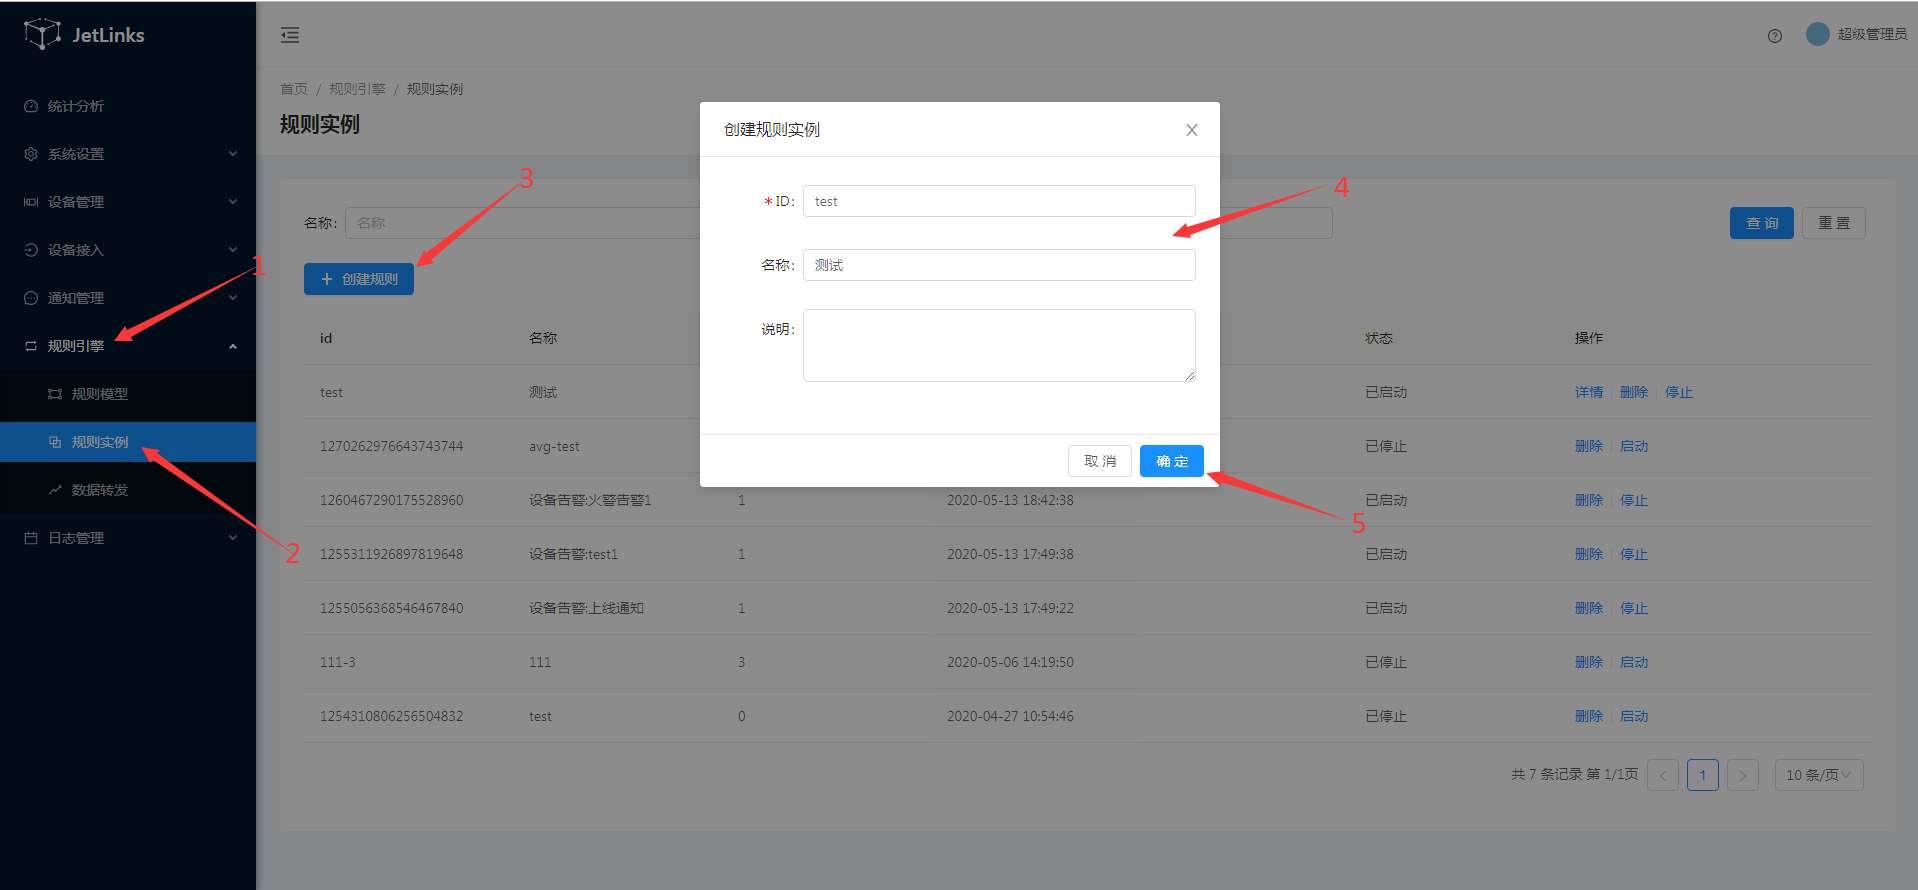
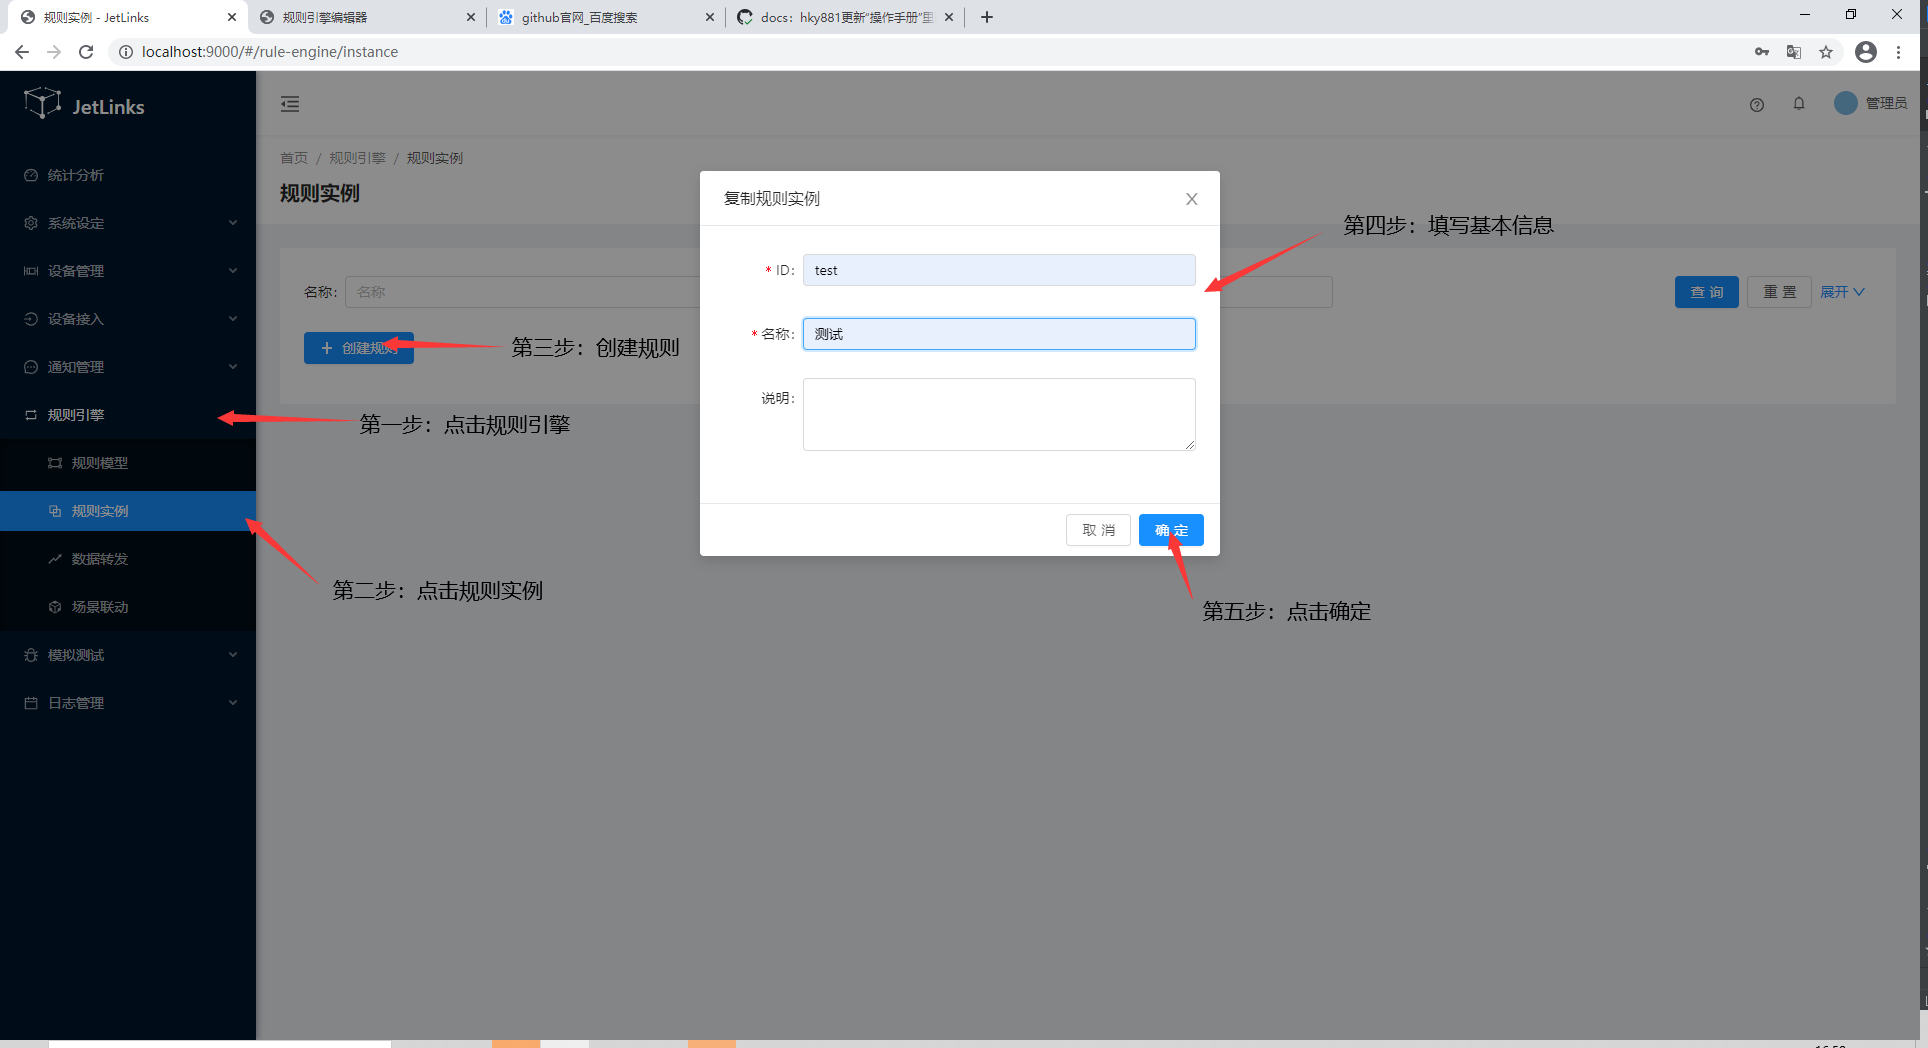
docs:增加demoDevice操作流程

diff --git a/.vuepress/config.js b/.vuepress/config.js
@@ -81,7 +81,8 @@ module.exports = {
                     ['/basics-guide/device-manager.md', '设备管理'],
                     ['/basics-guide/course/network.md', '设备接入'],
                     ['/basics-guide/course/notification.md', '通知管理'],
-                    ['/basics-guide/course/rule-engine-nodered.md', '规则引擎']
+                    ['/basics-guide/course/rule-engine-nodered.md', '规则引擎'],
+                    ['/basics-guide/DemoDevice.md', 'DemoDevice操作流程']
                     //['/basics-guide/course/logger.md', '日志管理']
                 ]
             },

diff --git a/basics-guide/DemoDevice.md b/basics-guide/DemoDevice.md
@@ -1,0 +1,114 @@
+# DemoDevicies手册
+
+## 新建
+
+### 新建网络组件
+
+1.进入系统,点击`设备接入` → `网络组件` → `新增组件`
+
+![新建网络组件](images/device_demo/Network_components.png)
+
+2.创建完后启动组件（蓝色为启动成功）
+
+![启动网络组件](images/device_demo/start_network.png)
+
+### 新建设备网关
+
+1.点击 `设备接入 `→ `设备网关` → `新建`
+![新建网关](images/device_demo/device_gateway.png)
+
+2.创建成功后，找到刚创建的网关，开启网关
+
+![开启网关](images/device_demo/start_gateway.png)
+
+### 创建协议
+1.点击 `设备接入` → `协议管理` → `新建`
+
+输入类名org.jetlinks.pisenser.protocol.PiSenserProtocolSupportProvider
+![创建协议](images/device_demo/create_protocol.png)
+
+2.在操作栏中点击点击`发布`
+![发布协议](images/device_demo/protocol_release.png)
+### 创建产品
+1.点击 `设备管理` →`产品`→ `新建`
+
+2.点击新建过后会跳转到创建产品界面，如下图：
+
+![创建产品](images/device_demo/create_product.png)
+
+3.点击保存过后会跳转到产品基本信息界面，点击 `发布` → `应用配置` ，如图下：
+
+![发布产品](images/device_demo/product_release.png)
+
+4.导入物模型
+
+·下载快速导入物模型的文件,再点击`应用配置`
+![导入物模型](images/device_demo/download.png)
+### 创建设备:
+
+1.点击 `设备管理` → `设备` → `添加设备`
+![导入物模型](images/device_demo/create_equipment.png)
+
+2.点击保存过后会跳转到设备的基本信息，点击激活设备，如下图：
+![导入物模型](images/device_demo/activate_equipment.png)
+
+## 模拟设备接入
+1.下载并安装MQTT.fx软件。请访问[MQTT官网](https://mqttfx.jensd.de/index.php/download?spm=a2c4g.11186623.2.16.20ab5800HxuVJR)下载。
+
+2.打开MQTT.fx软件，单击设置图标。
+![下载MQTT](images/device_demo/mqttfx-index.png)
+
+3.填写相应的信息
+![配置MQTT参数](images/device_demo/mqtt_config.png)
+
+4.点击 `ok` 保存后，测试连接设备，如下图：
+![MQTT开始按钮](images/device_demo/start_config.png)
+
+5.返回系统界面,查看设备是否上线，如下图：
+![MQTT开始按钮](images/device_demo/equipment_online.png)
+
+6.断开设备连接，如下图：
+![MQTT断开连接](images/device_demo/stop_config.png)
+![设备断开连接](images/device_demo/off_line.png)
+::: tip 温馨提示：
+如果回到系统，设备还是显示的在线，请刷新一下页面
+:::
+
+## 真实设备接入
+设备通过网线接入路由器后，会通过DHCP协议自动获取IP地址，在路由器界面查询到设备IP地址。
+
+:::warning 注意:
+此处的IP地址根据你的实际地址确认
+:::
+![查看ip地址](images/device_demo/equipment_ip.png)
+1.下载并安装Xshell软件。请访问[Xshell官网](https://www.xshellcn.com/xiazai.html)下载。
+
+2.打开软件，新建一个会话，点击连接。（主机：192.168.3.139）
+
+:::warning 注意:
+此处的IP地址根据你的实际地址确认
+:::
+![连接会话](images/device_demo/Connect_session.png)
+
+3.登录名和密码（name:pi    password:  qwer1234 ）
+![用户名](images/device_demo/login_name.png)
+![密码](images/device_demo/login_password.png)
+
+3.连接设备成功后，执行命令 : $vim Senser.py
+![密码](images/device_demo/create_file.png)
+
+4.执行完成后，在最下面修改配置文件（按i键切换为编辑模式）
+
+![密码](images/device_demo/update_file.png)
+
+5.编辑完过后，按ESC键退出编辑，执行命令 ：$:wq保存文件并退出该文件
+
+![密码](images/device_demo/exit_file.png)
+
+6.执行$sudo reboot,重启程序,如下图
+
+![密码](images/device_demo/reboot_procedure.png)
+
+7.进入系统查看设备是否上线
+
+![密码](images/device_demo/online_equipment.png)

diff --git a/advancement-guide/third-mqtt.md b/advancement-guide/third-mqtt.md
@@ -6,24 +6,24 @@
 
 ## 安装并启动EMQ
 
-可直接前往[官网下载](http://www.emqtt.io/downloads/) emqttd。  
+可直接前往[官网下载](https://www.emqx.io/cn/downloads#broker) emqttd。  
 本文使用docker搭建。  
 ### 拉取镜像  
 ```shell script
-docker pull registry.cn-hangzhou.aliyuncs.com/synbop/emqttd:2.3.6
+docker pull emqx/emqx:4.2.5
 ```
 ### 运行镜像  
 ```shell script
-docker run --name emq -p 18083:18083 -p 1883:1883 -p 8084:8084 -p 8883:8883 -p 8083:8083 -d registry.cn-hangzhou.aliyuncs.com/synbop/emqttd:2.3.6
+docker run -d --name emqx -p 1883:1883 -p 8083:8083 -p 8883:8883 -p 8084:8084 -p 18083:18083 emqx/emqx:4.2.5
 ```
 ### 访问EMQ Dashboard
-在浏览器中输入 http:192.168.99.100: 18083,默认账号密码为用户名：admin 密码：public。
+在浏览器中输入 http://localhost:18083/,默认账号密码为用户名：admin 密码：public。
 
 ![emq-dashboard](images/third-mqtt/emq-dashboard.png)
 
 ## 创建MQTT客户端网络组件
 
-1. 选择 `网络组件`-->`组件管理`--> 点击`新增组件`按钮。  
+1. 选择 `设备接入`-->`网络组件`--> 点击`新增组件`按钮。  
 ![insert-mqtt-client](images/third-mqtt/insert-mqtt-client.png)  
 2. 在创建完成的模块上点击`启动`按钮。  
 ![mqtt-client-start](images/third-mqtt/mqtt-client-start.png)  

diff --git a/basics-guide/course/rule-engine-nodered.md b/basics-guide/course/rule-engine-nodered.md
@@ -10,11 +10,13 @@
 2. 输入id、名称。  
 
 3. 点击`确定`进行保存。  
+
+4.保存过后会自动保存跳转到设计器。
 ![创建规则](../images/rule-engine/create.png)   
 
 
 ### 设计器
-在[创建规则](#创建规则)完成后，在对应规则的操作列点击`详情`进入设计器。  
+在[创建规则](#创建规则)完成后，在对应规则的操作列点击`编辑`进入设计器。  
 
 ![详情](../images/rule-engine/info.png)  
 

diff --git a/basics-guide/course/notification.md b/basics-guide/course/notification.md
@@ -18,7 +18,8 @@
 
 ## 邮件通知
 
-进入系统: `通知管理`-`通知配置` 点击左侧菜单中的`邮件` 添加一个邮件通知配置.
+进入系统: `通知管理`-`通知配置` 点击左侧菜单中的`新建` 添加一个邮件通知配置(注：新建时密码不是邮箱登录密码，密码会在邮箱开启IMAP/SMTP服务
+会提示一个第三方客户端登录授权密码).
 
 ### 添加163邮箱配置信息
 
